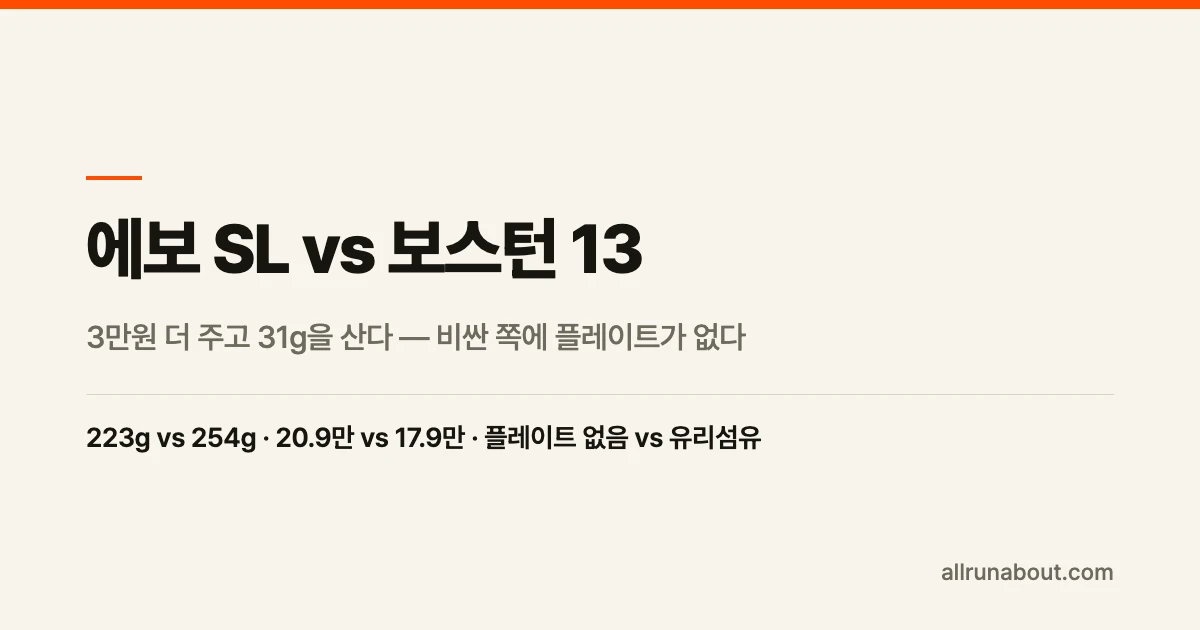
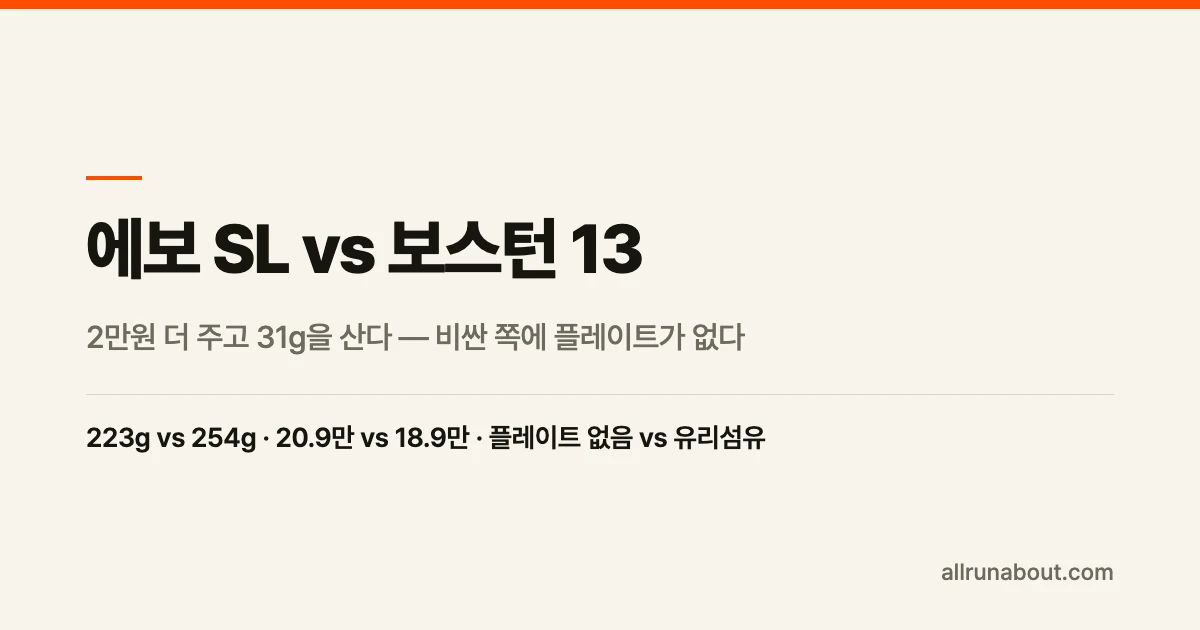
fix(audit-G): 비교 글 썸네일 4장에 구워진 옛 가격·무게를 새 제목·DB 값으로 다시 렌더
B 에서 제목을 고친 비교 글 4편의 썸네일(부제·데이터 줄)에 옛 수치가 남아 있었다.
- 매직스피드 5 vs 줌 플라이 6: '같은 22.9만원, 55g'·'193g' → '같은 20.9만원, 47g'·'201g'(RunRepeat 실측)
- 매직스피드 5 vs 슈퍼블라스트 3: '193g vs 239g' → '201g vs 235g'(둘 다 RunRepeat 실측)
- 노바블라스트 6 vs 보스턴 13: '같은 17.9만원' → '1만원·5g 차이'
- 에보 SL vs 보스턴 13: '3만원 더'·'17.9만' → '2만원 더'·'18.9만'
npx tsx scripts/thumbnail/render.ts 로 생성, 4장 눈으로 확인

Changed region(s): [[0.3392, 0.6635, 0.6475, 0.7238], [0.37, 0.5127, 0.6167, 0.573], [0.0617, 0.5127, 0.3392, 0.573]]

diff --git a/scripts/thumbnail/copy.ts b/scripts/thumbnail/copy.ts
@@ -204,7 +204,7 @@ export const OVERRIDES: Record<string, Partial<ThumbCopy>> = {
   'asics-magic-speed-5-vs-superblast-3-carbon-vs-plateless-2026': {
     title: '매직스피드 5 vs 슈퍼블라스트 3',
     subtitle: '카본 든 쪽이 더 잘 휘고, 플레이트 없는 쪽이 더 돌려준다',
-    data: '193g vs 239g · 강성 13.1N vs 16.5N · 전족 충격흡수 112 vs 153',
+    data: '201g vs 235g · 강성 13.1N vs 16.5N · 전족 충격흡수 112 vs 153',
   },
   // 출처: 2026 하트런 공식 홈페이지(heartrun.co.kr, 2026-09-03 확인) — 행사개요(10/10 올림픽공원
   // 피크닉장, 10K·5K 각 1,000명, 5만원), 참가신청 상품 옵션("뛰어서/걸어서"), FAQ(코스 운영 12시까지),
@@ -375,22 +375,22 @@ export const OVERRIDES: Record<string, Partial<ThumbCopy>> = {
   // 쿠션·반발 9/7 대 7/9. 전부 신발 DB 실측(asics-novablast-6.ts · adidas-boston-13.ts).
   'asics-novablast-6-vs-adidas-boston-13-daily-2026': {
     title: '노바블라스트 6 vs 보스턴 13',
-    subtitle: '같은 17.9만원, 5g 차이인데 성격이 반대',
+    subtitle: '1만원·5g 차이인데 성격이 반대',
     data: '쿠션 9 vs 7 · 반발 7 vs 9 · 플레이트 없음 vs 유리섬유 로드',
   },
   // 출처: posts/2026-08.ts 비교표 — 무게 193g/248g, 드롭 7/10mm, 한국 정가 둘 다 229,000원.
   // 전부 신발 DB 실측(asics-magic-speed-5.ts · nike-zoom-fly-6.ts).
   'asics-magic-speed-5-vs-nike-zoom-fly-6-carbon-trainer-2026': {
     title: '매직스피드 5 vs 줌 플라이 6',
-    subtitle: '같은 22.9만원, 55g이 갈린다 — 다치는 곳도 정반대',
-    data: '193g vs 248g · 드롭 7mm vs 10mm · 가격·수명·목표 페이스는 동일',
+    subtitle: '같은 20.9만원, 47g이 갈린다 — 다치는 곳도 정반대',
+    data: '201g vs 248g · 드롭 7mm vs 10mm · 가격·수명·목표 페이스는 동일',
   },
   // 출처: posts/2026-08.ts 비교표 — 무게 223g/254g, 한국 정가 209,000/179,000원,
   // 플레이트 유무(에보 SL 없음 / 보스턴 13 유리섬유 Energy Rods 2.0). 전부 신발 DB 실측.
   'adidas-adizero-evo-sl-vs-boston-13-daily-2026': {
     title: '에보 SL vs 보스턴 13',
-    subtitle: '3만원 더 주고 31g을 산다 — 비싼 쪽에 플레이트가 없다',
-    data: '223g vs 254g · 20.9만 vs 17.9만 · 플레이트 없음 vs 유리섬유',
+    subtitle: '2만원 더 주고 31g을 산다 — 비싼 쪽에 플레이트가 없다',
+    data: '223g vs 254g · 20.9만 vs 18.9만 · 플레이트 없음 vs 유리섬유',
   },
   // 출처: posts/2026-08.ts 본문 자가진단 1·2 — Knopp et al.(2023) 개인 반응 +11.4%~−11.3%,
   // Day & Hahn(2019) 시속 14km에서 9명 중 7명이 평범한 신발 우세.
